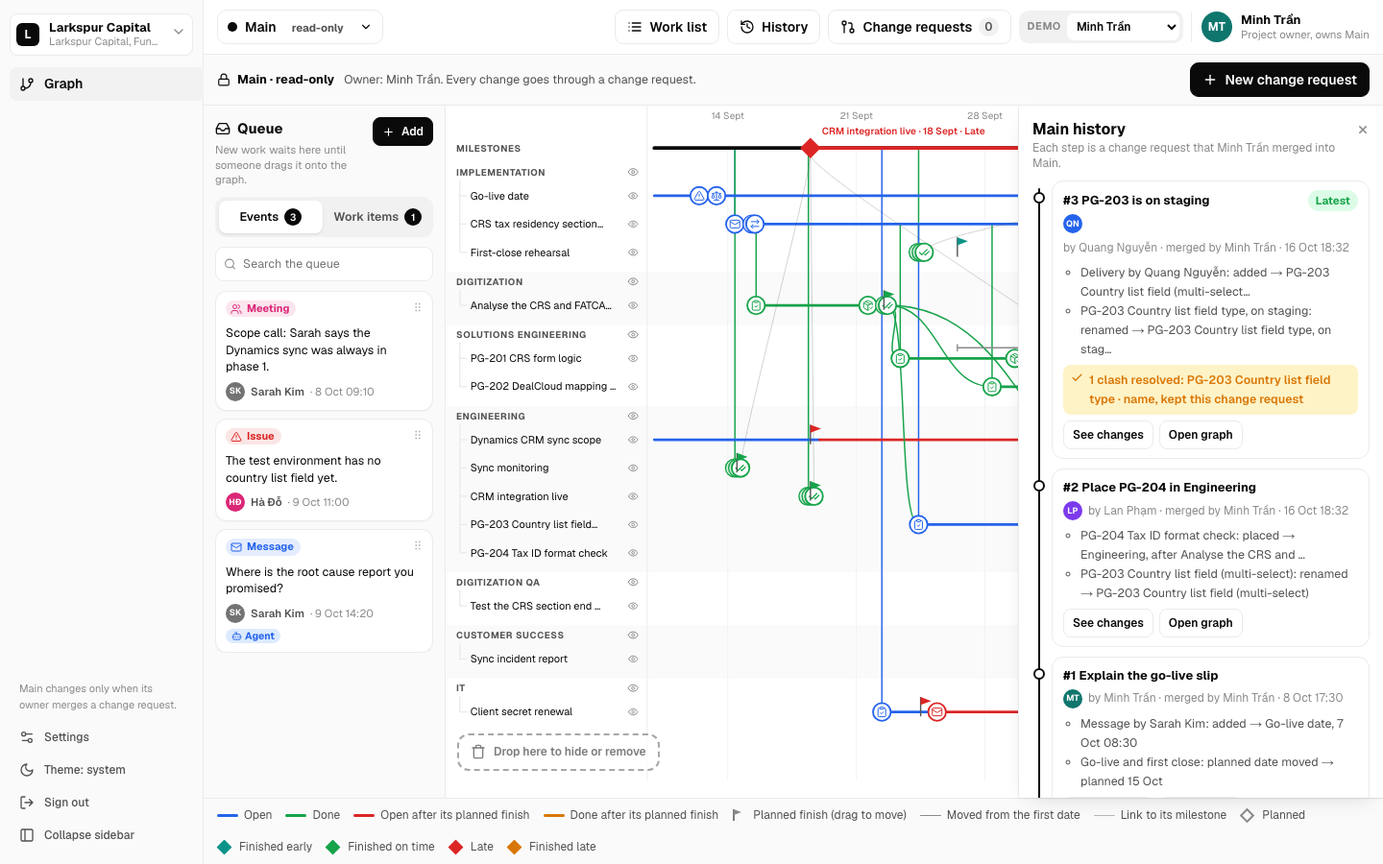
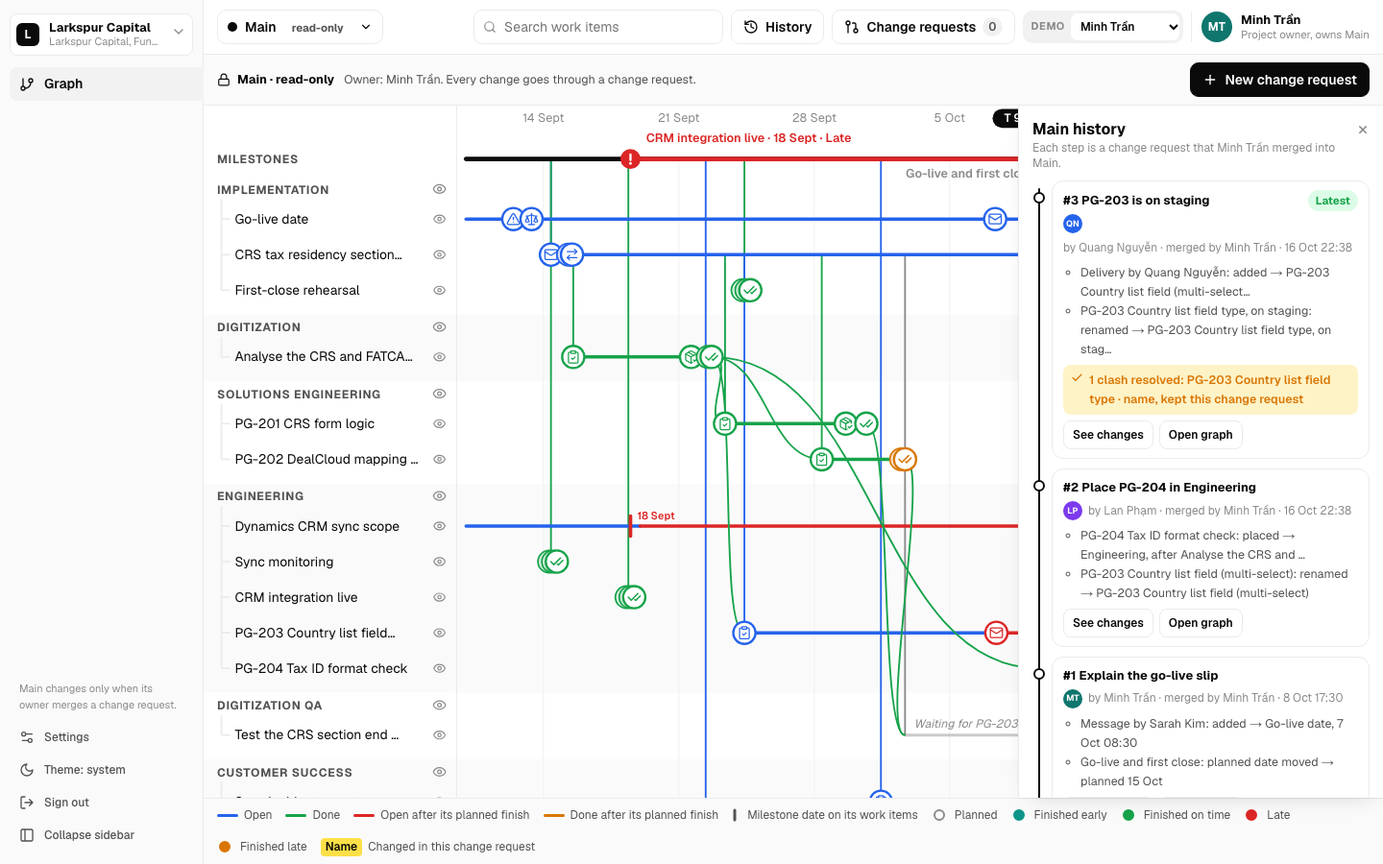
docs: read-only Main, search, details panel, milestone chips and ticks
The README walkthrough starts change requests with New change request and
uses the search. The spec (2.3, 2.5, 2.7, 2.8, 2.11, 2.16, 3.4, 3.8 and
testing) matches the app after rounds 1 and 2. The screenshots of Main,
the details panel, a change request, History and the phone are new.

diff --git a/docs/superpowers/specs/2026-10-16-event-tracker-design.md b/docs/superpowers/specs/2026-10-16-event-tracker-design.md
@@ -13,20 +13,27 @@ Promise Graph becomes an event tracker for a whole project. It shows what happen
 
 1. Event kinds: Message, Task, Handoff, Decision, Meeting, Delivery, Issue, Done. No promise semantics. A work item is done when it has a visible Done event; its finish time is the time of its last visible Done event.
 2. One row per work item, under its team (lane), indented. A work item has an optional parent and zero or more "leads from" links (`after`).
-3. Eye toggles hide a row or a whole team. A hidden row or team folds into a thin strip that says what it hides; a click shows it again (prototype mode 1). Hide state is per viewer, kept in `localStorage`, never versioned.
+3. Eye toggles hide a row or a whole team. A hidden row leaves no row, no line and no link on the graph. A hidden team keeps its head line, with the eye off and an "N hidden" button that shows its rows again. A shown team with hidden rows also shows "N hidden". A row whose parent or "leads from" source is hidden gets a small ↖ chip: its tooltip lists each hidden source as "From <title> (hidden)", and a click shows them again. The graph draws no ghost line for a hidden source, and no line on the graph is dashed or dotted. Search and the links of the details panel show a hidden row again. Hide state is per viewer, kept in `localStorage`, never versioned.
 4. Queue: events and work items wait in a project Queue until someone drags them onto the graph. People add them with Add; agents add them through MCP. No email or Slack sync.
-5. Drag and drop: a Queue work item onto a team places it (onto a milestone diamond sets its milestone while it waits); a Queue event onto a work item attaches it; a Queue event onto a team opens "New work item" from it; an event up or down moves it to another work item; anything onto the bin hides it (events) or removes it from the Queue (Queue cards). A work item name onto a milestone diamond adds it to that milestone. Every drop has a click alternative (pops and modals).
+5. Drag and drop works only in a draft change request that the acting member edits. A Queue work item onto a team places it (onto a milestone circle sets its milestone while it waits); a Queue event onto a work item attaches it; a Queue event onto a team opens "New work item" from it; an event up or down moves it to another work item; anything onto the bin hides it (events) or removes it from the Queue (Queue cards). The bin shows only while something is dragged. A work item name onto a milestone circle adds it to that milestone. Every drop has a click alternative (pops and modals).
 6. Milestones have 5 statuses: Planned, Finished early, Finished on time, Late, Finished late. A milestone is done when all its work items are done; its finish is the latest finish of its work items. Late = not done and today is after the planned date.
-7. Each work item has a Planned finish (a date). Work items use the same 5 statuses against their own Planned finish. Moving a Planned finish or a milestone date needs a written reason (not empty after trim). The app keeps the first date and every move: who, when, from, to, why. A drag of the date flag or the milestone diamond opens the reason dialog with the dropped date.
-8. Colours on a row: blue while open, green when done; the part of the line after the item's own Planned finish is red while open and amber when done late. The link from a work item to its milestone is red when the item is open and planned to finish after the milestone date, amber when it finished after the milestone date, grey otherwise.
+7. Each work item has a Planned finish (a date). Work items use the same 5 statuses against their own Planned finish. Moving a Planned finish or a milestone date needs a written reason (not empty after trim). The app keeps the first date and every move: who, when, from, to, why. The graph draws no date flag for a work item. The pop of a work item shows its Planned finish and a "moved N×" link to its moves, and the details panel lists the first date and every move. In an editable change request, Move the date in the pop or the details panel opens the reason dialog, and a drag of the milestone circle opens it with the dropped date.
+8. Colours and marks:
+   - A row is blue while open and green when done. The part of the line after the item's own Planned finish is red while open and amber when done late.
+   - A milestone is a circle on the milestone line. Its fill is the status colour (Planned: an outline only). It shows a tick when finished early or on time, and "!" when late or finished late. Its label is "name · date · status" on 2 levels.
+   - Milestones have no curved links. Each member row shows a milestone chip in a fixed column at the right of the graph: "◆ <name>", cut to 18 characters, with the full name, the date and the reason in its tooltip. A row "makes the milestone late" when it finished after the milestone date, or when it is open and today or its Planned finish is after that date. The chip is red when an open row makes the milestone late, amber when a done row finished after the date, and neutral grey otherwise.
+   - A member row shows a short deadline tick at the milestone date while that date has not passed (the deadline day counts), or when the row makes the milestone late. The tick takes the chip colour. A click, Enter or Space on a chip or a tick opens the milestone drawer.
+   - Yellow marks what a change request changed (owner choice C2): a highlighter behind a changed name, a solid yellow ring around a changed event, and a yellow stroke on a changed milestone circle or a moved milestone date. The tokens are `--change`, `--change-text` and `--change-bg`.
+   - The picked row on the review graph and the reveal flash use a neutral band: a see-through light grey fill with a 1.5 px ink outline, so a yellow name inside them stays readable.
+   - The T line is a solid thin grey line. No line on the graph is dashed or dotted.
 9. No breakdown types and no day-count rules (no reply, accept, hedge or at-risk windows).
 10. Projects: a signed-in user creates a project (client, project name, teams one per line, optional first milestone with date). Each project has one Main graph. The creator owns Main. A team can also be added later through a change request.
-11. Main is read-only. A drag or edit on Main opens "Main is read-only" with New change request; the change goes into the new change request. The same dialog appears on a CR the person cannot edit, with the right buttons (Ask to edit, Edit again, Add to #N, New change request).
+11. Main is read-only, and so is every view that the acting member cannot edit: someone else's draft, a ready, merged or closed CR, and a viewer. Such a view has no drag and drop, no edit buttons in pops and drawers, and no "+" buttons; pops and drawers show the information only. On entering Main, a notice at the top says "Main is read-only. To change it, create a change request." with New change request, a close ×, and Don't show again (kept per user in `localStorage`). In other read-only CR views, the context bar says what to do (Ask to edit, Edit again, Review).
 12. Change request (CR): statuses Draft, Ready, Merged, Closed. Numbered per project (#1, #2...). A CR view always shows the latest Main plus the CR's own changes. There is no Sync.
 13. Share: the current editor adds people with Can edit or Can view. Everyone in the project can view every CR.
 14. One editor at a time. The author edits first. A person with Can edit (or the author) presses Ask to edit; the current editor presses Hand over or Not now. The editor can also hand over without an ask (Share, Hand over). Asks wait; nothing moves editing automatically.
 15. Mark as ready locks the CR (needs at least 1 change). The current editor presses Edit again to unlock it (back to Draft).
-16. The owner of Main reviews a CR on a full-page review screen: Changes (one card per change with red before and green after lines, the event quote, the reason of a date move, a Viewed box, per-change comments, Show on graph), On the graph (Before and After, the picked change in yellow, changes ringed in violet), Conversation (timeline and comments). Owner actions on a Ready CR: Merge into Main, Request changes (back to Draft with a note), Close without merging.
+16. The owner of Main reviews a CR on a full-page review screen: Changes (one card per change with red before and green after lines, the event quote, the reason of a date move, a Viewed box, per-change comments, Show on graph), On the graph (Before and After, the picked change in a neutral grey band, changes marked in yellow), Conversation (timeline and comments). Owner actions on a Ready CR: Merge into Main, Request changes (back to Draft with a note), Close without merging.
 17. Clash: a CR change clashes when Main took a different change on the same spot after the CR change was made. Spots (keys): queue event placement `event:<id>`, queue item placement `item:<id>`, event `act:<id>`, work item `loop:<id>:title`, `loop:<id>:ms`, `loop:<id>:due`, milestone `ms:<id>:date`, `ms:<id>:name`. Two different fields of one work item never clash. An identical change already in Main is dropped silently. The owner picks Main or the CR for every clash before Merge; the merge records each pick (label, kept value, dropped value, source CR number, who).
 18. A merged or closed CR is read-only history. History lists every merge into Main, newest first: CR, author, merger, time, changes, resolutions, with See changes and Open graph. Open graph shows Main right after that merge.
 19. Demo: each signed-in user gets a sandbox with the Larkspur demo project. In a demo project, a "Demo · Working as" select switches the acting member (Minh Trần owns Main; Lan Phạm, Quang Nguyễn, Hà Đỗ, Khoa Lê). Outside demo projects, the acting member is the signed-in user's member. The top right shows the acting member: avatar, name, role.
@@ -88,7 +95,8 @@ The queue in the state: `initial = base + all queue rows that are not dismissed`
 ### 3.4 Status and layout (`src/tracker/status.ts`, `src/tracker/layout.ts`)
 
 - `itemStatus(item, events, asOf, timeZone)` and `milestoneStatus(milestone, items, events, asOf, timeZone)` return `planned | early | ontime | late | flate` with the prototype rules, compared by calendar day in the project time zone.
-- `layoutTracker(state, view, options)` returns a render model: lanes, rows (y, fold strips), line segments with colours, event groups (icons stacked when closer than 16 px), date flags and slip lines, milestone diamonds with 2 label levels, trunk segments, "leads from" curves, links to milestones, parent stems, T line, ticks. `view = { hiddenRows, hiddenTeams, asOf, windowStart, windowEnd }`. Default window: from `project.windowStart` (or 21 days before the earliest open item's start) to the later of `asOf + 7 days` and the latest planned date + 3 days. The render keeps the prototype geometry (viewBox width 1060, label column 236 px, row 32 px, head 22 px, fold 13 px) and scales to the container width.
+- `layoutTracker(state, view, marks?)` returns a render model: lanes (with the "N hidden" button of a team), rows, line segments with colours, event groups (icons stacked when closer than 16 units, with every id), milestone circles with 2 label levels, milestone chips (`msChips`) and deadline ticks (`goalTicks`), ↖ chips for hidden sources (`chips`), trunk segments, "leads from" curves, parent stems, the T line and the axis ticks. A row with a hidden parent gets a chip and no stem. `view = { hiddenRows, hiddenTeams, asOf, timeZone, zoom, windowStart }`. Default window: from `project.windowStart` (or 21 days before the earliest open item's start) to the later of `asOf + 7 days` and the latest planned date + 3 days.
+- Geometry: viewBox width 1060, a fixed label column of 228 units (`SIDE`), a fixed milestone chip column of 132 units (`RAIL`, present only when a shown row has a milestone), row 32, head 22. At zoom 1 the three columns fill the width. `zoom` (1 to 12) stretches only the time line, which scrolls on its own while the label column and the chip column stay put. The axis ticks every day once a day is 60 units wide. The graph scales to the container width.
 
 ### 3.5 Storage (migration `0004_tracker.sql`, Drizzle in `src/server/db/schema.ts`)
 
@@ -137,7 +145,20 @@ Every write locks the project row (existing `lockProject`) or the CR row, checks
 
 ### 3.8 UI (`src/components/tracker/`)
 
-Port the prototype screen by screen, with the app's tokens (`src/app/globals.css` has the same token names as the prototype) and a new `tracker.css`. Components: `TrackerScreen` (state, polling, view = Main or CR), `TopBar` (project switcher reuse, view switcher, Work list, History, Change requests with count, demo select, acting member), `ContextBar`, `QueuePanel`, `TrackerGraph` (SVG from `layoutTracker`, pointer drag and drop with ghost and drop highlight, bin), `Pops` (event, work item, date, rename, kind), `Drawers` (Work list with filters, Milestone, Changes, Change requests, History), `Modals` (Add to queue, Place work item, Add event, New work item from event, New milestone, Move the date, New change request, Share, Read-only), `Toast` with Undo, and `ReviewScreen` on its own route. Keyboard: Esc closes the top layer; every SVG target has `role="button"`, `tabindex=0`, an `aria-label`, and Enter or Space activates it. Phone width (390 px): no horizontal page scroll; the Queue stacks above the graph and its cards scroll sideways.
+Port the prototype screen by screen, with the app's tokens (`src/app/globals.css` has the same token names as the prototype) and a new `tracker.css`. Components:
+
+- `TrackerScreen`: state, polling, view = Main or CR, zoom, the reveal of a row, the Main notice.
+- `TopBar`: view switcher, Search work items, History, Change requests with count, demo select, acting member.
+- `ContextBar`: what the view is and what the person can do; `MainNotice`.
+- `QueuePanel`: only in a draft CR that the acting member edits; a toggle hides it and a "Queue N" button shows it again.
+- `TrackerGraph`: SVG from `layoutTracker`, zoom buttons (Zoom out, Zoom in ×1.5, Fit) and Ctrl or Cmd with the wheel, pointer drag and drop with ghost and drop highlight, bin. A `reveal` prop zooms to 2× when at fit, scrolls the row into view (left of an open drawer), and flashes it for 1.5 s.
+- `Search`: a combobox that matches the title, the team name and the people (case and Vietnamese marks ignored), and lists up to 8 results with the team and a status chip. Arrow keys, Enter, Esc and a click work. A pick shows the row if it or its team is hidden, reveals it on the graph and opens its details.
+- `Pops`: event, stack of events, work item (with See details), date moves, rename, kind. Edit buttons show only in an editable view.
+- `Drawers`: Work item details, Milestone, Changes, Change requests, History. The Work item details show the title, team, Done by, Requested by, milestone with its status and date, the status chip, the Planned finish with the first date and every move, Started (first visible event), Finished (last Done event) or Open, Time spent as "123 h (5.1 days)" up to the finish or to now, parent and "leads from" links, all events newest first (hidden ones marked "hidden"), and the eye toggle. In an editable view it also has Add an event, Move the date and Rename. A click on an event opens its pop on the graph.
+- `Modals`: Add to queue, Place work item, Add event, New work item from event, New milestone, New team, Move the date, New change request, Share.
+- `Toast` with Undo, and `ReviewScreen` on its own route.
+
+Layout: on a desktop, the board fills the viewport. The bars and the legend stay put, and the graph canvas scrolls between them. A drawer covers the right side of the canvas at full height. Without the Queue, the graph takes the full width. Keyboard: Esc closes the top layer; every SVG target has `role="button"`, `tabindex=0`, an `aria-label`, and Enter or Space activates it. Phone width (390 px): no horizontal page scroll; the page scrolls, the search takes its own line, the Queue stacks above the graph and its cards scroll sideways.
 
 ### 3.9 MCP (`src/server/mcp/tools.ts`)
 
@@ -153,9 +174,9 @@ After the tracker screens work: delete the promise engine, records, inbox, evide
 
 ## 4. Testing
 
-- Unit (Vitest): ops (every op, skipped cases, ids), clashes (the owner rule: a change made after seeing the new Main value does not clash; identical changes drop; field-level keys), statuses (5 values per item and milestone, day boundaries in the time zone), layout (rows per team, fold strips, flags, slip line, colours, label levels), describe and diff lines.
+- Unit (Vitest): ops (every op, skipped cases, ids), clashes (the owner rule: a change made after seeing the new Main value does not clash; identical changes drop; field-level keys), statuses (5 values per item and milestone, day boundaries in the time zone), time spent, search matching and order, layout (rows per team, hidden rows and ↖ chips, milestone chips and ticks, colours, label levels, zoom), describe and diff lines.
 - Integration (Vitest with `TEST_DATABASE_URL`): project creation and owner; queue add and dismiss; CR create, op append under the lock with `expectedRevision`; ask, hand over, not now, cancel; share; ready and edit again; merge without clash; merge with picks and the recorded resolutions; stale picks rejected; request changes; close; every permission rule rejects the wrong member; act-as only in demo projects; seed contents.
-- E2E (Playwright, run in a separate worktree, never against port 3100): the 13 prototype tasks of v8 section 3, light theme, plus a phone-width overflow check.
+- E2E (Playwright, run in a separate worktree, never against port 3100): the 13 prototype tasks of v8 section 3 (step 2 starts with New change request), the Main notice and Don't show again, no drag and no edit buttons on Main, the search for PG-203 and its details, milestone ticks and chips, stacks, zoom and hiding, light theme, plus a phone-width overflow check.
 - Gates: `tsc --noEmit`, `eslint .`, `prettier --check .`, `vitest run`, Playwright. Capture each real exit code.
 
 ## 5. Out of scope

diff --git a/README.md b/README.md
@@ -2,18 +2,21 @@
 
 Promise Graph is an event tracker for a whole project. It shows what happened at every step, which work led to which work across teams, and why plans changed.
 
-People and their agents add events and work items to a Queue. A person drags them onto the graph. Main is read-only: every change goes through a change request, and the owner of Main merges it.
+People and their agents add events and work items to a Queue. In a change request, a person drags them onto the graph. Main is read-only: every change goes through a change request, and the owner of Main merges it.
 
-![The Larkspur demo project on Main: teams, work items, events, milestones and the Queue](docs/screenshots/tracker-main.png)
+![The Larkspur demo project on Main: the read-only notice, teams, work items, events, milestones and their chips](docs/screenshots/tracker-main.png)
 
 ## What it does
 
 - **Events.** An event is a Message, Task, Handoff, Decision, Meeting, Delivery, Issue or Done. Each event sits on the row of one work item.
-- **Work items and teams.** Each work item has one row under its team. A work item can have a parent and can lead from other work items. It is done when it has a Done event. The eye buttons hide a row or a whole team for you only.
-- **Milestones.** A milestone has 5 statuses: Planned, Finished early, Finished on time, Late and Finished late. It is done when all its work items are done.
+- **Work items and teams.** Each work item has one row under its team. A work item can have a parent and can lead from other work items. It is done when it has a Done event. The eye buttons hide a row or a whole team for you only. A hidden row leaves no line on the graph. A row whose parent or source is hidden shows a small ↖ arrow. Press the arrow to show that row again.
+- **Milestones.** A milestone has 5 statuses: Planned, Finished early, Finished on time, Late and Finished late. It is done when all its work items are done. Its circle on the milestone line shows the status.
+- **Milestone chips and ticks.** Each work item in a milestone shows a chip with the milestone name at the right of its row. The row also shows a short tick at the milestone date while that date has not passed, or when the row makes the milestone late. The chip and the tick are red when an open row makes the milestone late, and amber when the row finished after the milestone date. A click on a chip or a tick opens the milestone.
 - **Planned finish.** Each work item has a Planned finish date and the same 5 statuses. To move a Planned finish or a milestone date, you must write a reason. The app keeps the first date and every move: who, when, from, to and why.
-- **Queue.** New events and work items wait in the Queue. People add them with **Add**, and agents add them through MCP. Drag a card onto a work item or a team to place it. Every drag also has a click way.
-- **Main is read-only.** A drag on Main opens "Main is read-only" with **New change request**. Your change goes into the new change request.
+- **Queue.** New events and work items wait in the Queue. People add them with **Add**, and agents add them through MCP. The Queue shows only in a change request that you edit. Drag a card onto a work item or a team to place it. Every drag also has a click way. The Queue toggle hides the Queue, so the graph gets the full width.
+- **Main is read-only.** On Main, the graph and its pops show information only: no drag, no edit buttons. A notice at the top says so and has **New change request**. **Don't show again** hides the notice for you. A merged or closed change request and a change request that someone else edits are read-only too.
+- **Search.** Type in **Search work items** at the top right. The search matches the title, the team and the people of each work item. Pick a result with the arrow keys and Enter, or with a click. The graph shows the row again if it is hidden, zooms to it and flashes it. The details panel opens: the status, the planned finish with every move and its reason, the start, the finish, the time spent in hours and days, the parent, the sources and all the events. A click on an event opens its pop on the graph.
+- **Zoom.** The zoom buttons at the top right of the graph stretch the time line. Ctrl (or Cmd) and the mouse wheel also zoom. **Fit** shows the whole window again.
 - **Change requests.** A change request is a Draft, Ready, Merged or Closed. It always shows the latest Main plus its own changes. **Share** gives a person Can edit or Can view. Everyone in the project can view every change request.
 - **One editor at a time.** A person with Can edit presses **Ask to edit**. The current editor presses **Hand over** or **Not now**.
 - **Ready.** **Mark as ready** locks the change request. The editor presses **Edit again** to unlock it.
@@ -25,12 +28,12 @@ The app never calls an AI model and holds no provider key.
 
 | | |
 |---|---|
-| ![The Go-live date flag: first planned 30 Sept, moved once to 15 Oct, with the reason](docs/screenshots/date-moves.png) | ![Change request #5 with its Changes drawer: an event from the Queue and a date move with its reason](docs/screenshots/change-request.png) |
-| The date flag of a work item: the first date, each move and its reason. | A change request with 2 changes. The second change moves a date and shows why. |
+| ![The details panel of the Go-live date: first planned 30 Sept, moved once to 15 Oct, with the reason and the events](docs/screenshots/date-moves.png) | ![Change request #5 with the Queue and its Changes drawer: an event from the Queue and a date move with its reason](docs/screenshots/change-request.png) |
+| The details of a work item after a search: the status, the times, the first date, each move and its reason, and the events. | A change request with 2 changes. The second change moves a date and shows why. |
 | ![The review of #3 with one clash with Main on the PG-203 name](docs/screenshots/review-clash.png) | ![Main history with the merges and the resolved clash](docs/screenshots/history.png) |
 | The review page. **Merge into Main** stays off until the owner picks a version for the clash. | History records each merge and each resolved clash. |
 
-<img src="docs/screenshots/phone.png" alt="The tracker at phone width: the Queue above the graph" width="300">
+<img src="docs/screenshots/phone.png" alt="The tracker at phone width: a change request with the Queue above the graph" width="300">
 
 The screenshots come from a local development server on 16 October 2026, with the seeded sandbox and the light theme. The desktop shots use a 1440 x 900 viewport; the phone shot uses a 390 x 844 viewport.
 
@@ -42,9 +45,11 @@ Your first sign-in creates a private sandbox: the fictional Larkspur Capital onb
 
 Use the **Demo** select at the top right to change who you work as. Minh Trần owns Main. Lan Phạm, Quang Nguyễn, Hà Đỗ and Khoa Lê are members. The select shows only in the demo project. In your own projects, you work as yourself.
 
-1. Anyone: click the planned finish mark (the short bar with 15 Oct) on the Go-live date row. See the first date (30 Sept), the new date (15 Oct) and the reason.
-2. Lan: drag the Queue event "Where is the root cause report…" onto Sync incident report. Main is read-only, so the app asks. Press **New change request**, then **Create**.
-3. Lan: drag the PG-203 planned finish mark to the right. Pick the date, write the reason, then press **Move the date**.
+Main opens with a notice that it is read-only. Press **×** to close it for now, or **Don't show again**.
+
+1. Anyone: type "Go-live" in **Search work items** and pick Go-live date. The details panel shows the first date (30 Sept), the new date (15 Oct) and the reason.
+2. Lan: press **New change request**, then **Create**. Drag the Queue event "Where is the root cause report…" onto Sync incident report.
+3. Lan: search "PG-203" and pick it. In the details panel, press **Move the date**. Pick the date, write the reason, then press **Move the date**.
 4. Lan: press **Share**, pick Khoa Lê with **Can edit**, then press **Add**.
 5. Khoa: Lan's change request opens, and Lan is editing. Press **Ask to edit**.
 6. Lan: the yellow row says that Khoa asks to edit. Press **Hand over**.
@@ -54,7 +59,7 @@ Use the **Demo** select at the top right to change who you work as. Minh Trần 
 10. Minh: open #3 by Quang. Its PG-203 name clashes with #2. Pick one version, then merge.
 11. Minh: open #5 and read why the PG-203 date moves. Press **Request changes**. Then Khoa: press **Read**, then **Mark as ready** again.
 12. Anyone: press **History**, then **See changes** on a merge.
-13. Anyone: open a merged change request (**History**, **Open graph**) and drag an event. The app asks you to start a new change request.
+13. Anyone: open a merged change request (**History**, **Open graph**). It is read-only history: no Queue, no drag and no edit buttons. Press **New change request** to change more.
 
 [tests/e2e/tracker.spec.ts](tests/e2e/tracker.spec.ts) runs these 13 steps in a browser.
 
